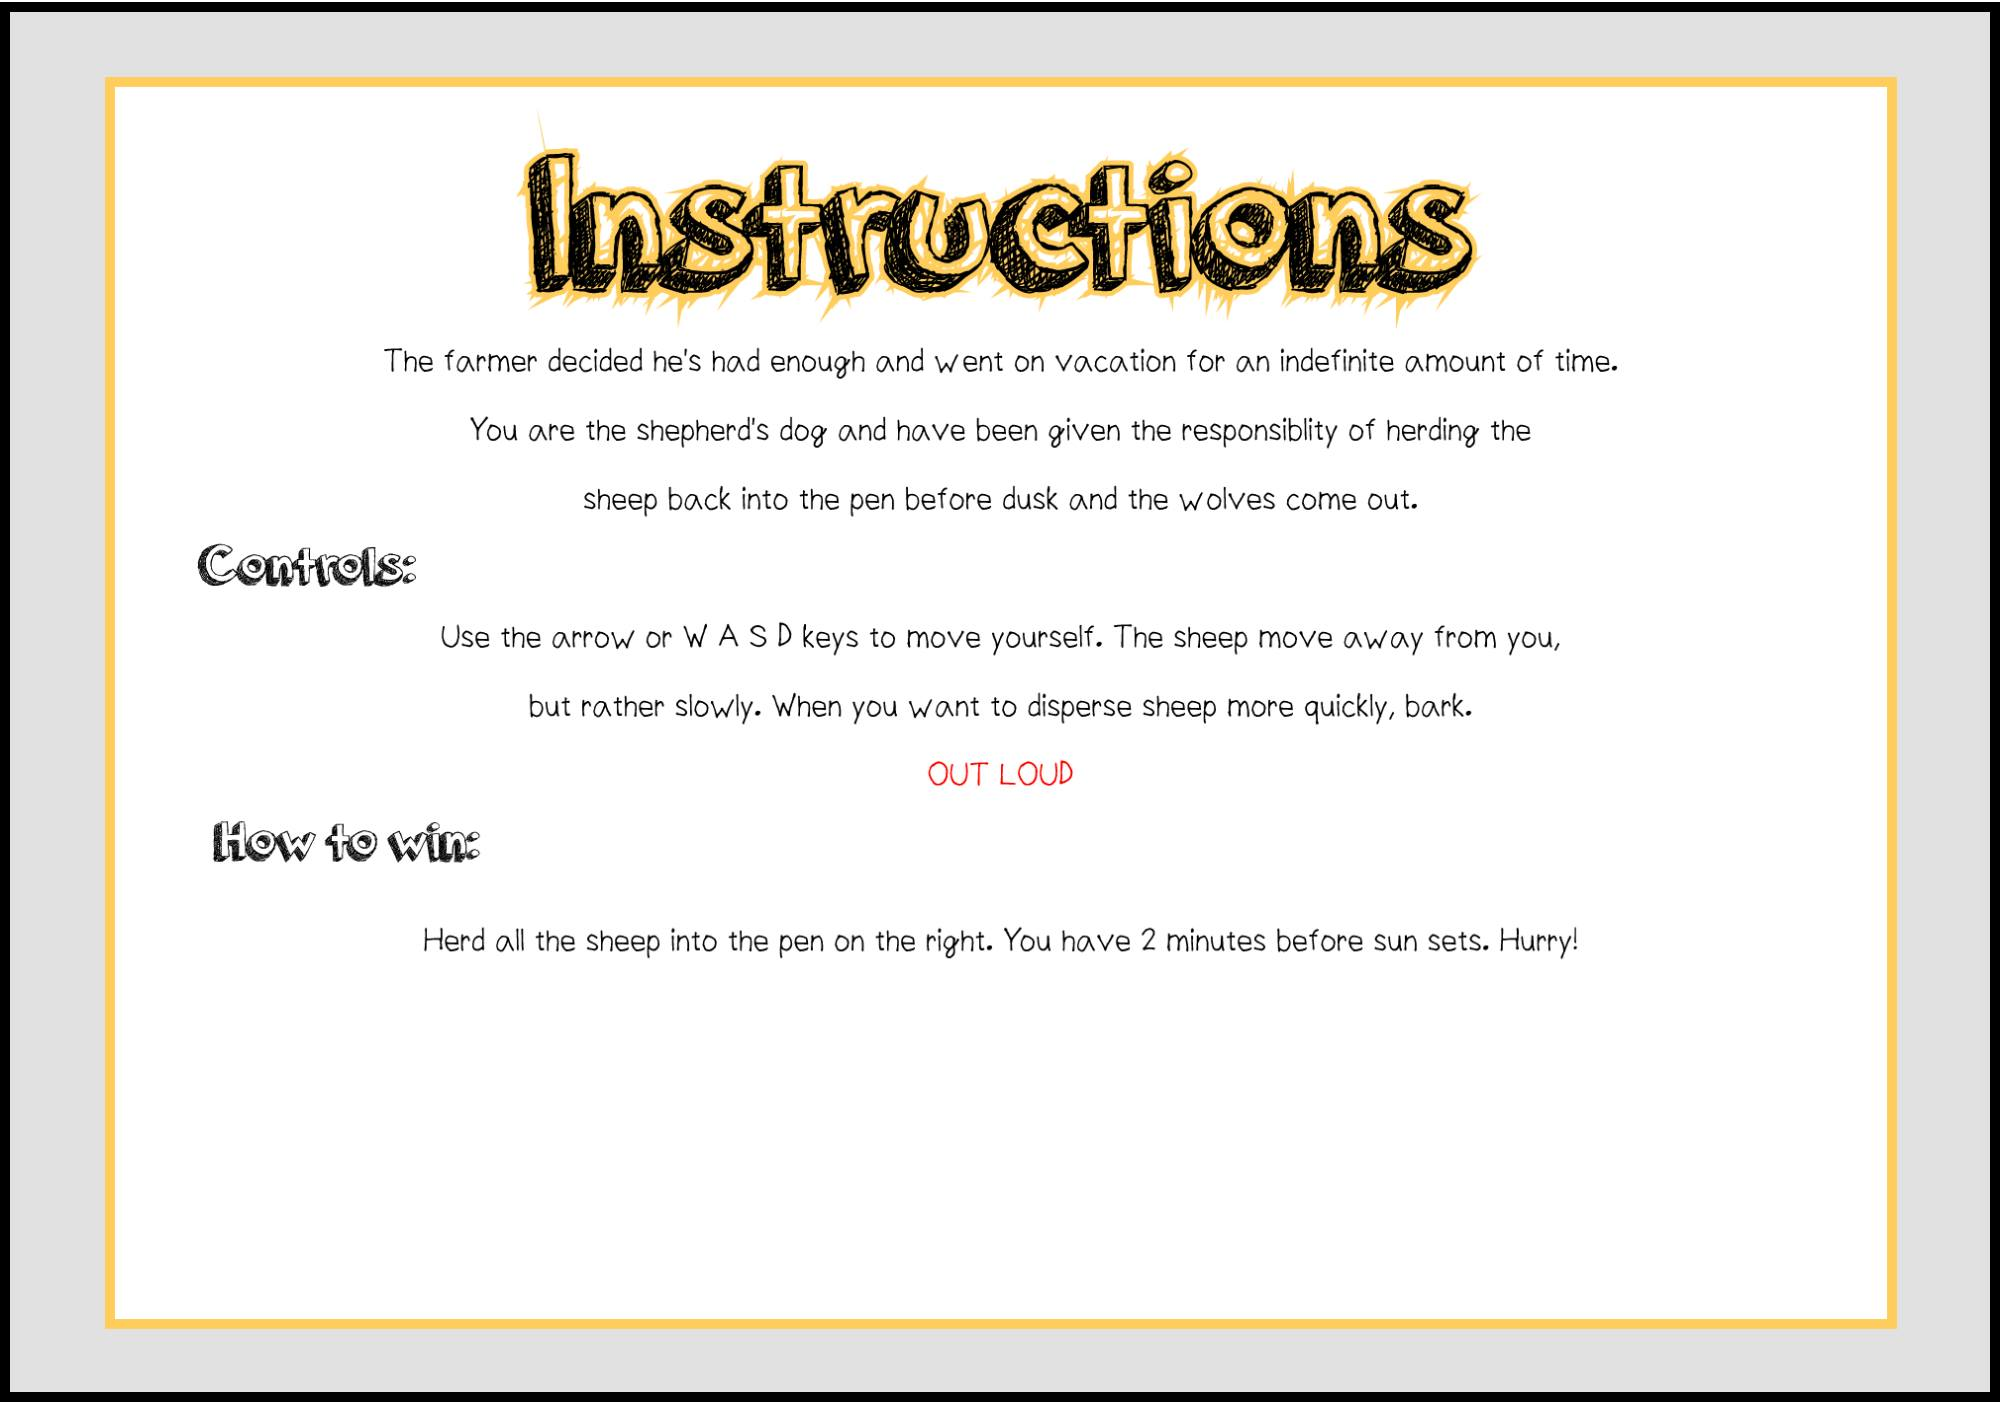
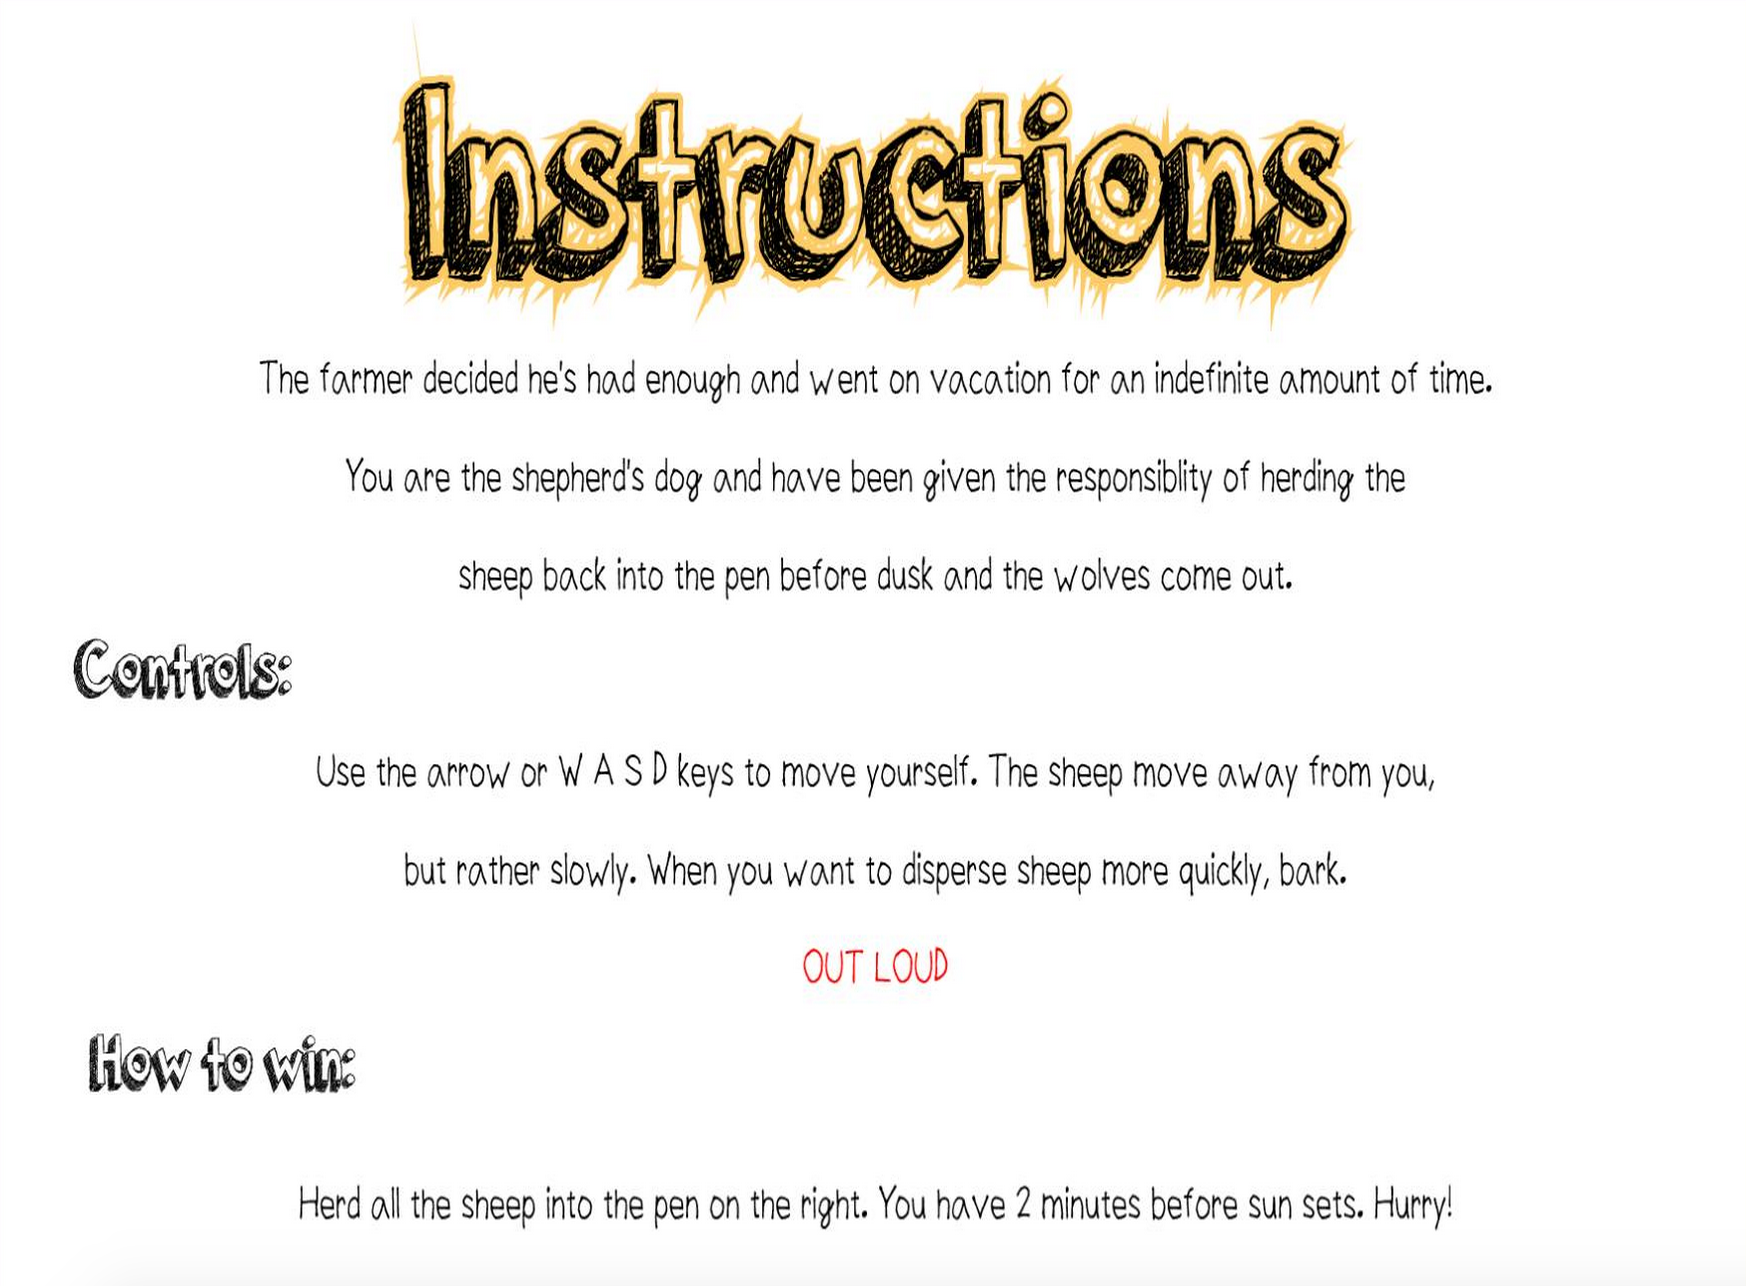
fixed instructions

diff --git a/sketch.js b/sketch.js
@@ -6,11 +6,10 @@ var moveAwayTime = 5; // sheep moves away from dog when collision detected for 5
 
 var timeLeft;
 var timePassed = 0;
-var orangeFont;
 
 var theCanvas;
 var canvasWidth = 1000;
-var canvasHeight = 700;
+var canvasHeight = 600;
 var penX = canvasWidth;
 var penY = canvasHeight/2;
 var startButtonX = canvasWidth * 0.90;
@@ -54,6 +53,7 @@ var currentDog = {
   h:0
 };
 
+var orangeFont;
 
 
 //var currentDog = image (DogSprites,DogLeft1.xpos,DogLeft1.ypos,DogLeft1.w,DogLeft1.h,this.x,this.y,DogLeft1.w,DogLeft1.h);
@@ -72,7 +72,7 @@ function preload(){
   sound = loadSound('trim2.mov');
   sheepSound = loadSound('baa.mp3');
   
-  orangeFont = loadFont("fonts/orangeJuice.ttf");
+  orangeFont = loadFont("/fonts/orangeJuice.ttf");
 }
 
 function setup(){
@@ -783,6 +783,7 @@ function gameOver(){
 
 //This function displays start screen
 function startScreen(){
+  
  
   if (sound.isPlaying() === false){
     sound.play();
@@ -793,12 +794,12 @@ function startScreen(){
   timeLeft = 6000; // used for testing
   imageMode(CORNER);
   image(startscreen,0,0,canvasWidth,canvasHeight);
-  textSize(100);
-  textFont(orangeFont);
-  fill(255, 255, 153);
-  stroke(255, 255, 153);
-  text("Sheep Heard-er",canvasWidth/2, canvasHeight/8);
   drawButton(mouseX,mouseY);
+  
+  fill(255, 255, 151);
+  //textFont(orangeFont);
+  textSize(80);
+  text("Sheep Heard-er!", canvasWidth/2, canvasHeight/10);
   
   /*
   background(0);
@@ -831,7 +832,7 @@ function drawButton(testX, testY){
   fill(224,255,255); // blue-white
   stroke(116,209,23); // green
   strokeWeight(5);
-  rect(startButtonX, startButtonY, 90, 90);
+  rect(startButtonX, startButtonY, 120, 90);
     
   // start text
   textSize(26);
@@ -848,7 +849,7 @@ function drawButton(testX, testY){
     fill(116,209,23); //green
     stroke(224,255,255); // blue-white
     strokeWeight(5);
-    rect(startButtonX, startButtonY, 90, 90);
+    rect(startButtonX, startButtonY, 120, 90);
     
     // text
     fill(224,255,255);

diff --git a/instruction.html b/instruction.html
@@ -42,7 +42,7 @@
           </div>
         </nav>
 
-        <img src="images/instruction.png" width=500 height=500>
+        <p><img src="images/instruction.png" text-align="middle" width=800 height=800></p>
 
   </body>
 </html>
